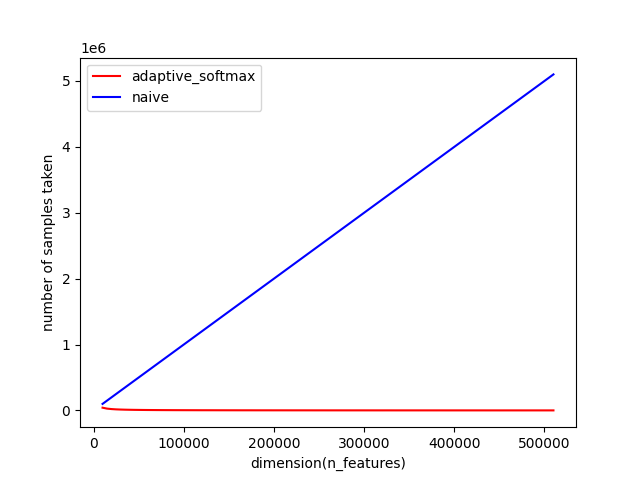
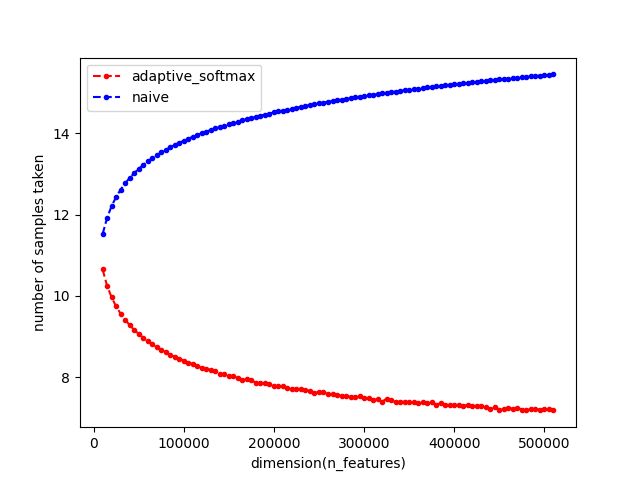
Changing plot format

diff --git a/adaptive_softmax/plot_script(fixed_data_sigma).py b/adaptive_softmax/plot_script(fixed_data_sigma).py
@@ -395,8 +395,8 @@ for dim_constant in range(0, 101):
   adaptive_time_list.append(adaptive_time_mean)
   budget_list.append(budget_mean)
 
-plt.plot(dimension_list, budget_list, color="red", label="adaptive_softmax")
-plt.plot(dimension_list, N_CLASSES * np.array(dimension_list), color="blue", label="naive")
+plt.plot(dimension_list, budget_list, "r--.", label="adaptive_softmax")
+plt.plot(dimension_list, N_CLASSES * np.array(dimension_list), "b--.", label="naive")
 plt.legend()
 plt.xlabel("dimension(n_features)")
 plt.ylabel("number of samples taken")

diff --git a/adaptive_softmax/plot_script.py b/adaptive_softmax/plot_script.py
@@ -388,8 +388,8 @@ for dim_constant in range(0, 101):
   adaptive_time_list.append(adaptive_time_mean)
   budget_list.append(budget_mean)
 
-plt.plot(dimension_list, budget_list, color="red", label="adaptive_softmax")
-plt.plot(dimension_list, N_CLASSES * np.array(dimension_list), color="blue", label="naive")
+plt.plot(dimension_list, budget_list, "r--.", label="adaptive_softmax")
+plt.plot(dimension_list, N_CLASSES * np.array(dimension_list), "b--.", label="naive")
 plt.legend()
 plt.xlabel("dimension(n_features)")
 plt.ylabel("number of samples taken")
